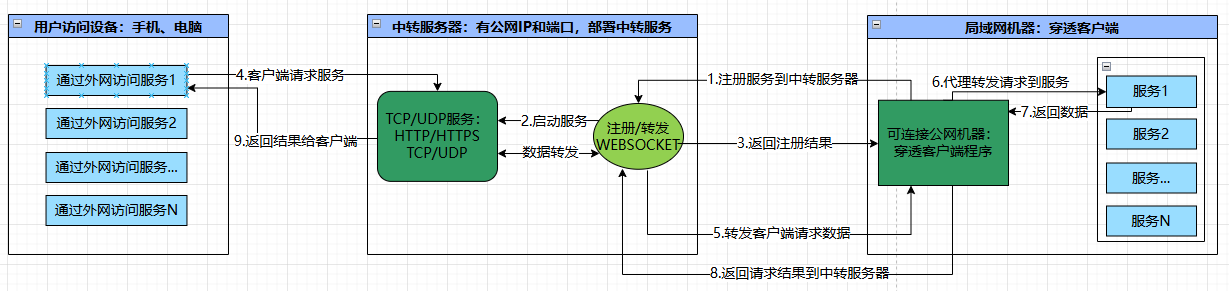
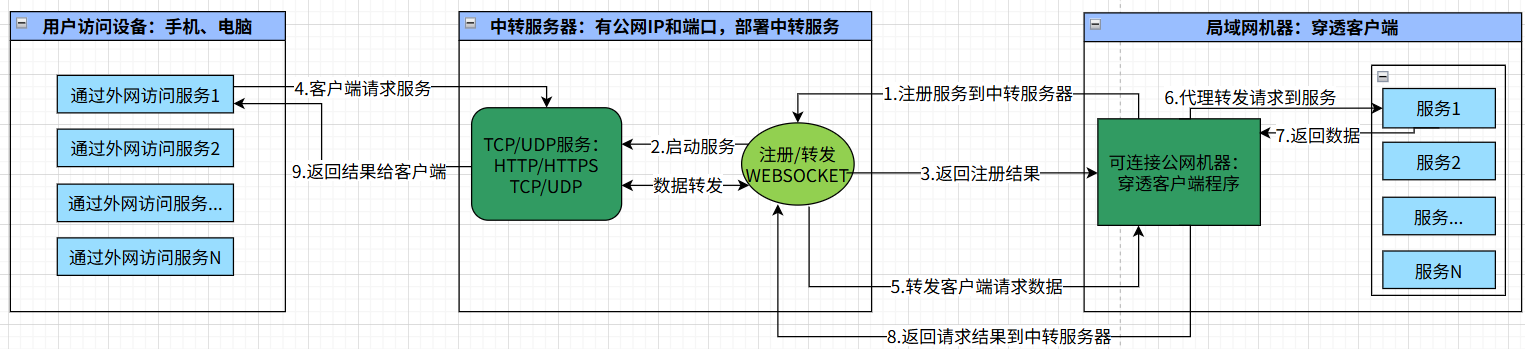
修改脚本版本号，修改说明文件，禁用vertx自带dns设置，日志默认级别设置为info

diff --git a/jrp-client/src/main/java/com/tony/jrp/client/ClientApplication.java b/jrp-client/src/main/java/com/tony/jrp/client/ClientApplication.java
@@ -4,6 +4,7 @@ import com.fasterxml.jackson.databind.DeserializationFeature;
 import io.vertx.core.AbstractVerticle;
 import io.vertx.core.Launcher;
 import io.vertx.core.Promise;
+import io.vertx.core.VertxOptions;
 import io.vertx.core.json.jackson.DatabindCodec;
 import lombok.extern.slf4j.Slf4j;
 import org.springframework.boot.SpringApplication;
@@ -23,7 +24,14 @@ public class ClientApplication extends AbstractVerticle {
     public static void main(String[] args) {
         List<String> list = getVertxArgs(args, ClientApplication.class.getName());
         DatabindCodec.mapper().configure(DeserializationFeature.FAIL_ON_UNKNOWN_PROPERTIES, false);
-        new Launcher().dispatch(list.toArray(new String[]{}));
+        new Launcher() {
+            @Override
+            public void beforeStartingVertx(VertxOptions options) {
+                //禁用自带dns
+                options.setAddressResolverOptions(null);
+                super.beforeStartingVertx(options);
+            }
+        }.dispatch(list.toArray(new String[]{}));
     }
 
     /**

diff --git a/jrp-client/src/main/java/com/tony/jrp/client/service/impl/ProxyClientManager.java b/jrp-client/src/main/java/com/tony/jrp/client/service/impl/ProxyClientManager.java
@@ -180,7 +180,7 @@ public class ProxyClientManager implements InitializingBean {
         server.requestHandler(router);
         server.listen(port);
         if (log.isInfoEnabled()) {
-            log.info("start server success，可浏览器访问[{http://127.0.0.1:{}{}}]进行穿透配置。", port, webUrl);
+            log.info("start server success，可浏览器访问[http://127.0.0.1:{}{}]进行穿透配置。", port, webUrl);
         }
         return server;
     }

diff --git a/README.md b/README.md
@@ -18,6 +18,7 @@ ssh、数据库连接、windows远程)、UDP穿透。
 2. SUDP：安全的UDP内网代理，与STCP类似，不需要在服务端暴露端口。
 3. XTCP：点对点内网穿透代理，与STCP类似，但流量不需要经过服务器中转。
 4. TCPMUX：服务端TCP端口的多路复用，允许通过同一端口访问不同的内网服务。
+5. STATIC: 静态文件穿透，支持HTTP、HTTPS。
 
 jrp-nat包括服务端jrp-server和客户端jrp-client。
 
@@ -108,7 +109,7 @@ jrp-nat包括服务端jrp-server和客户端jrp-client。
     ```
 4. window通过[start.bat](jrp-server/src/bin/start.bat)，linux通过[start.sh](jrp-server/src/bin/start.sh)
    启动内网穿透服务端（有外网ip和端口的服务器上启动）。
-5. 修改内网穿透客户端穿透代理配置参数config.json,目前支持HTTP(websocket)、TCP(pg、mysql等数据库服务，windows远程)、UDP:
+5. 修改内网穿透客户端穿透代理配置参数config.json,目前支持HTTP/HTTPS(websocket)、TCP(pg、mysql等数据库服务，windows远程)、UDP:
    ```
     {
      "path": "jrp-client",//代理服务配置管理服务HTTP访问路径
